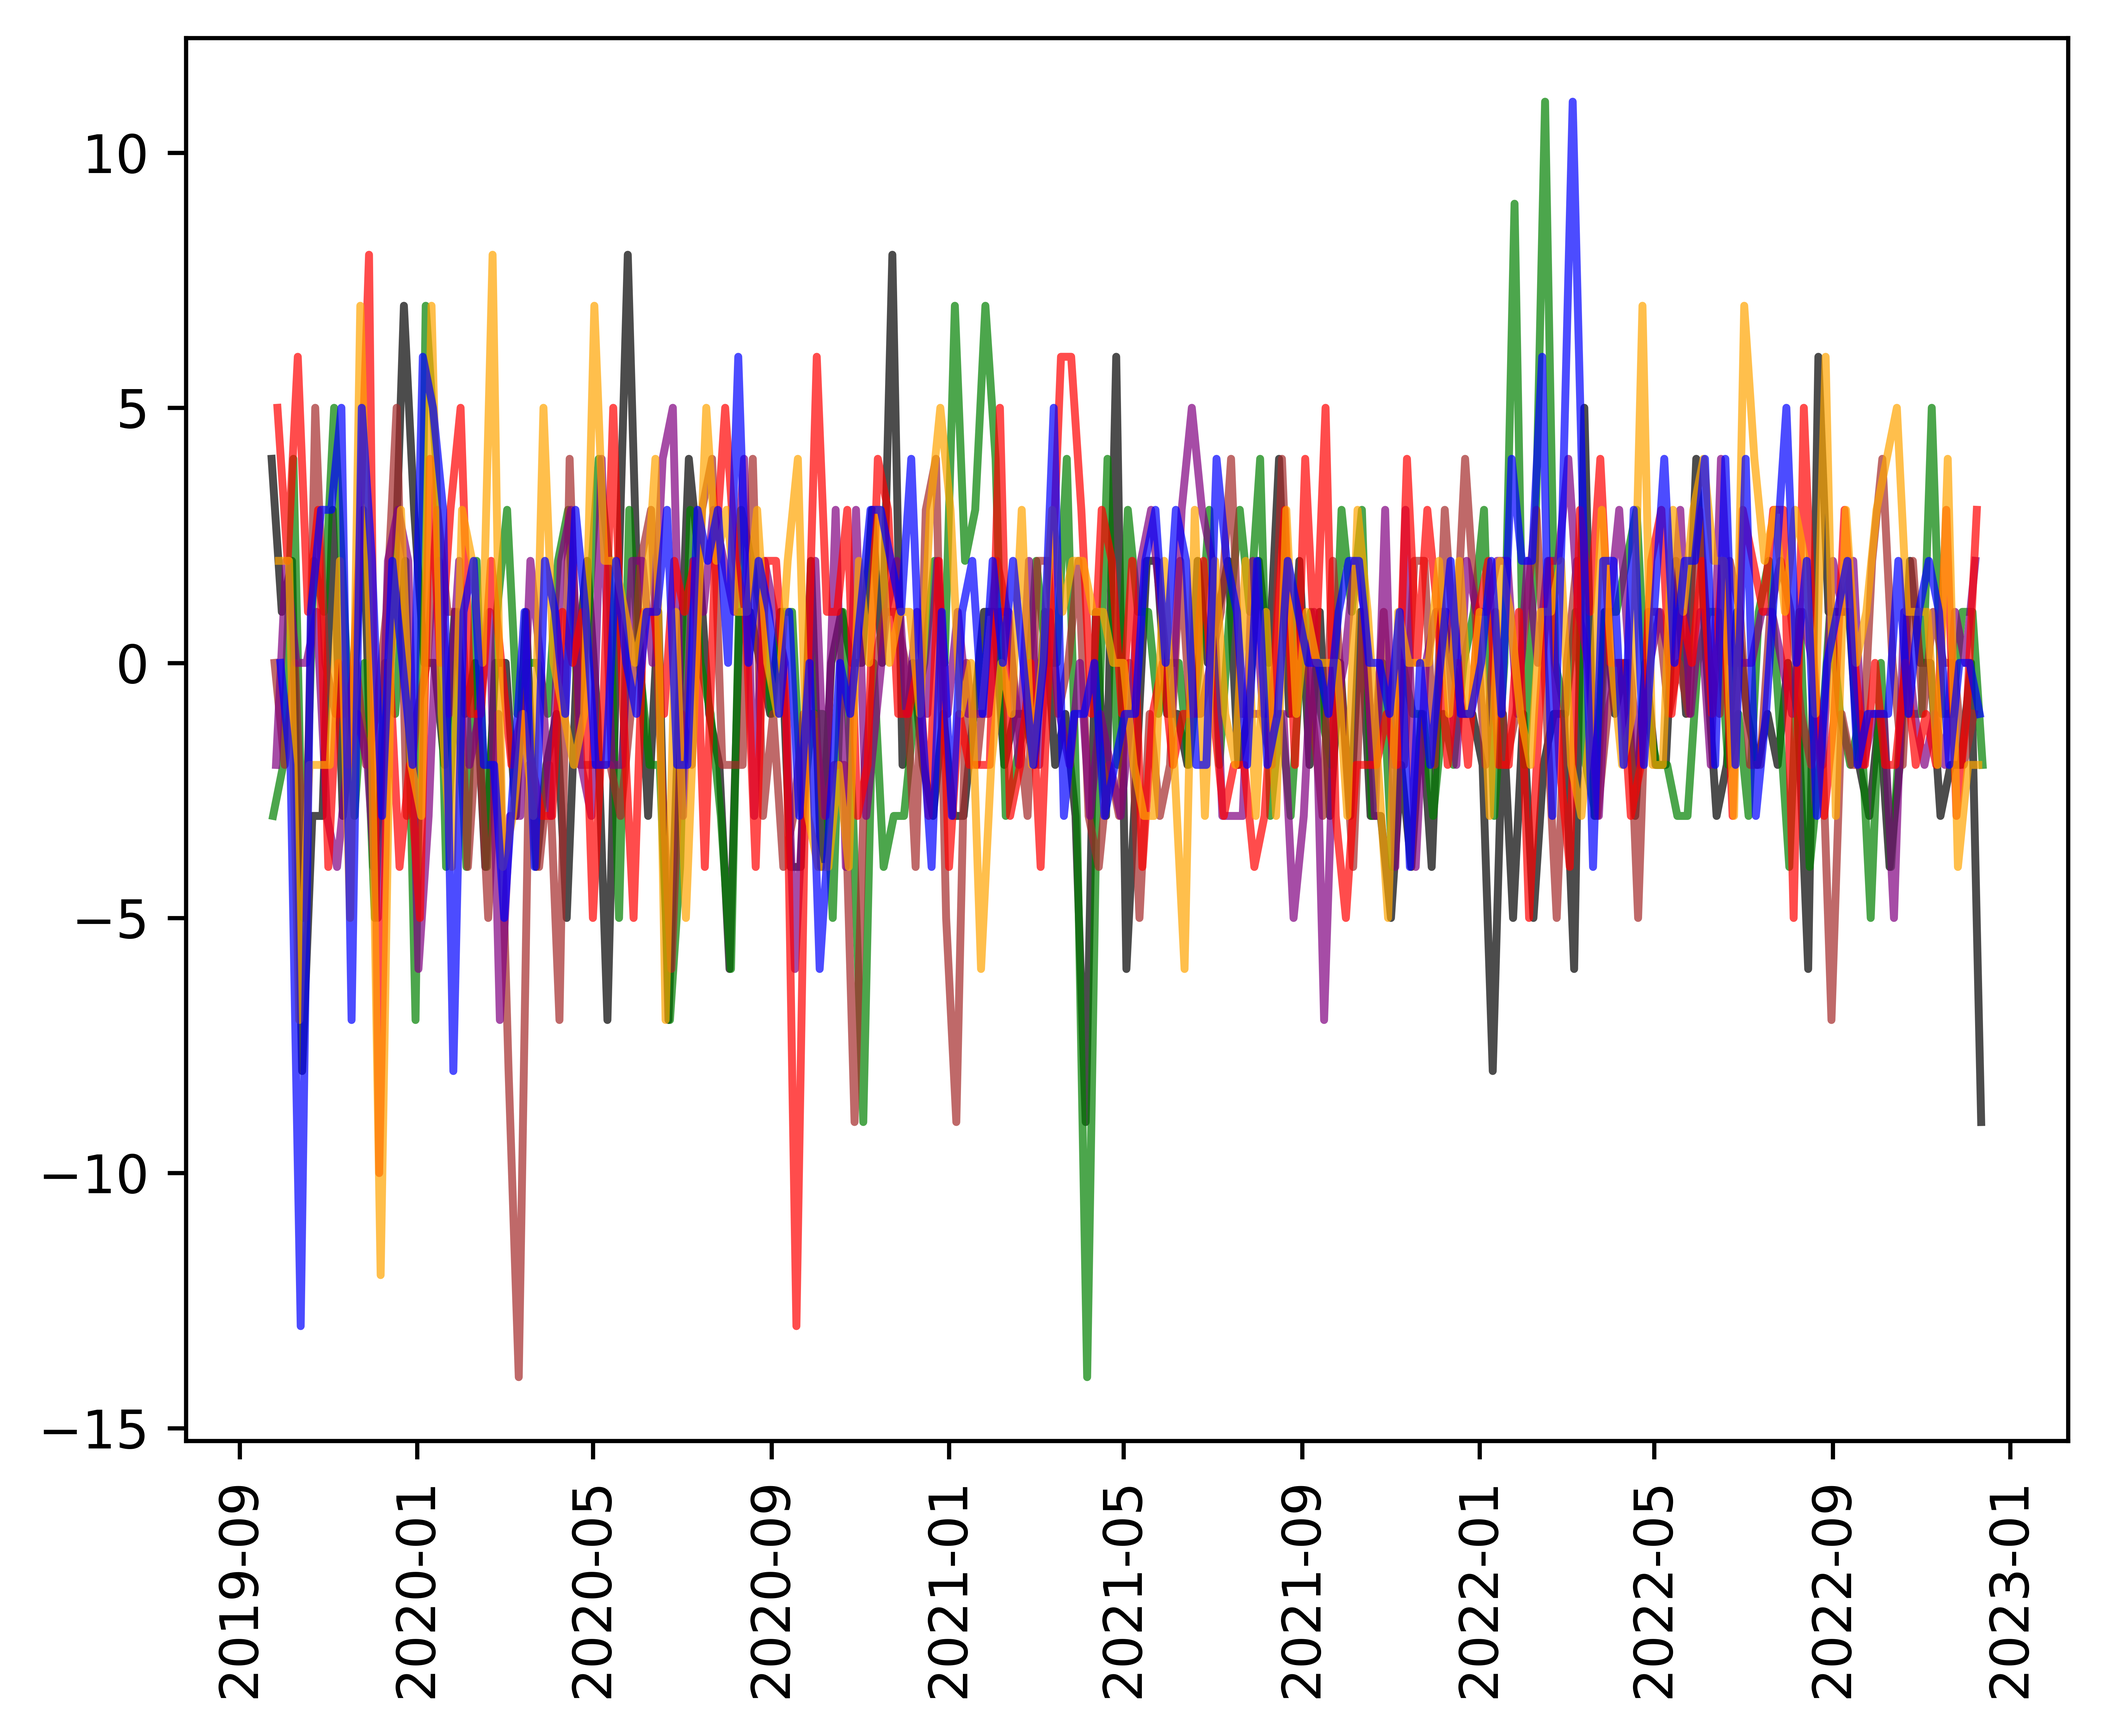
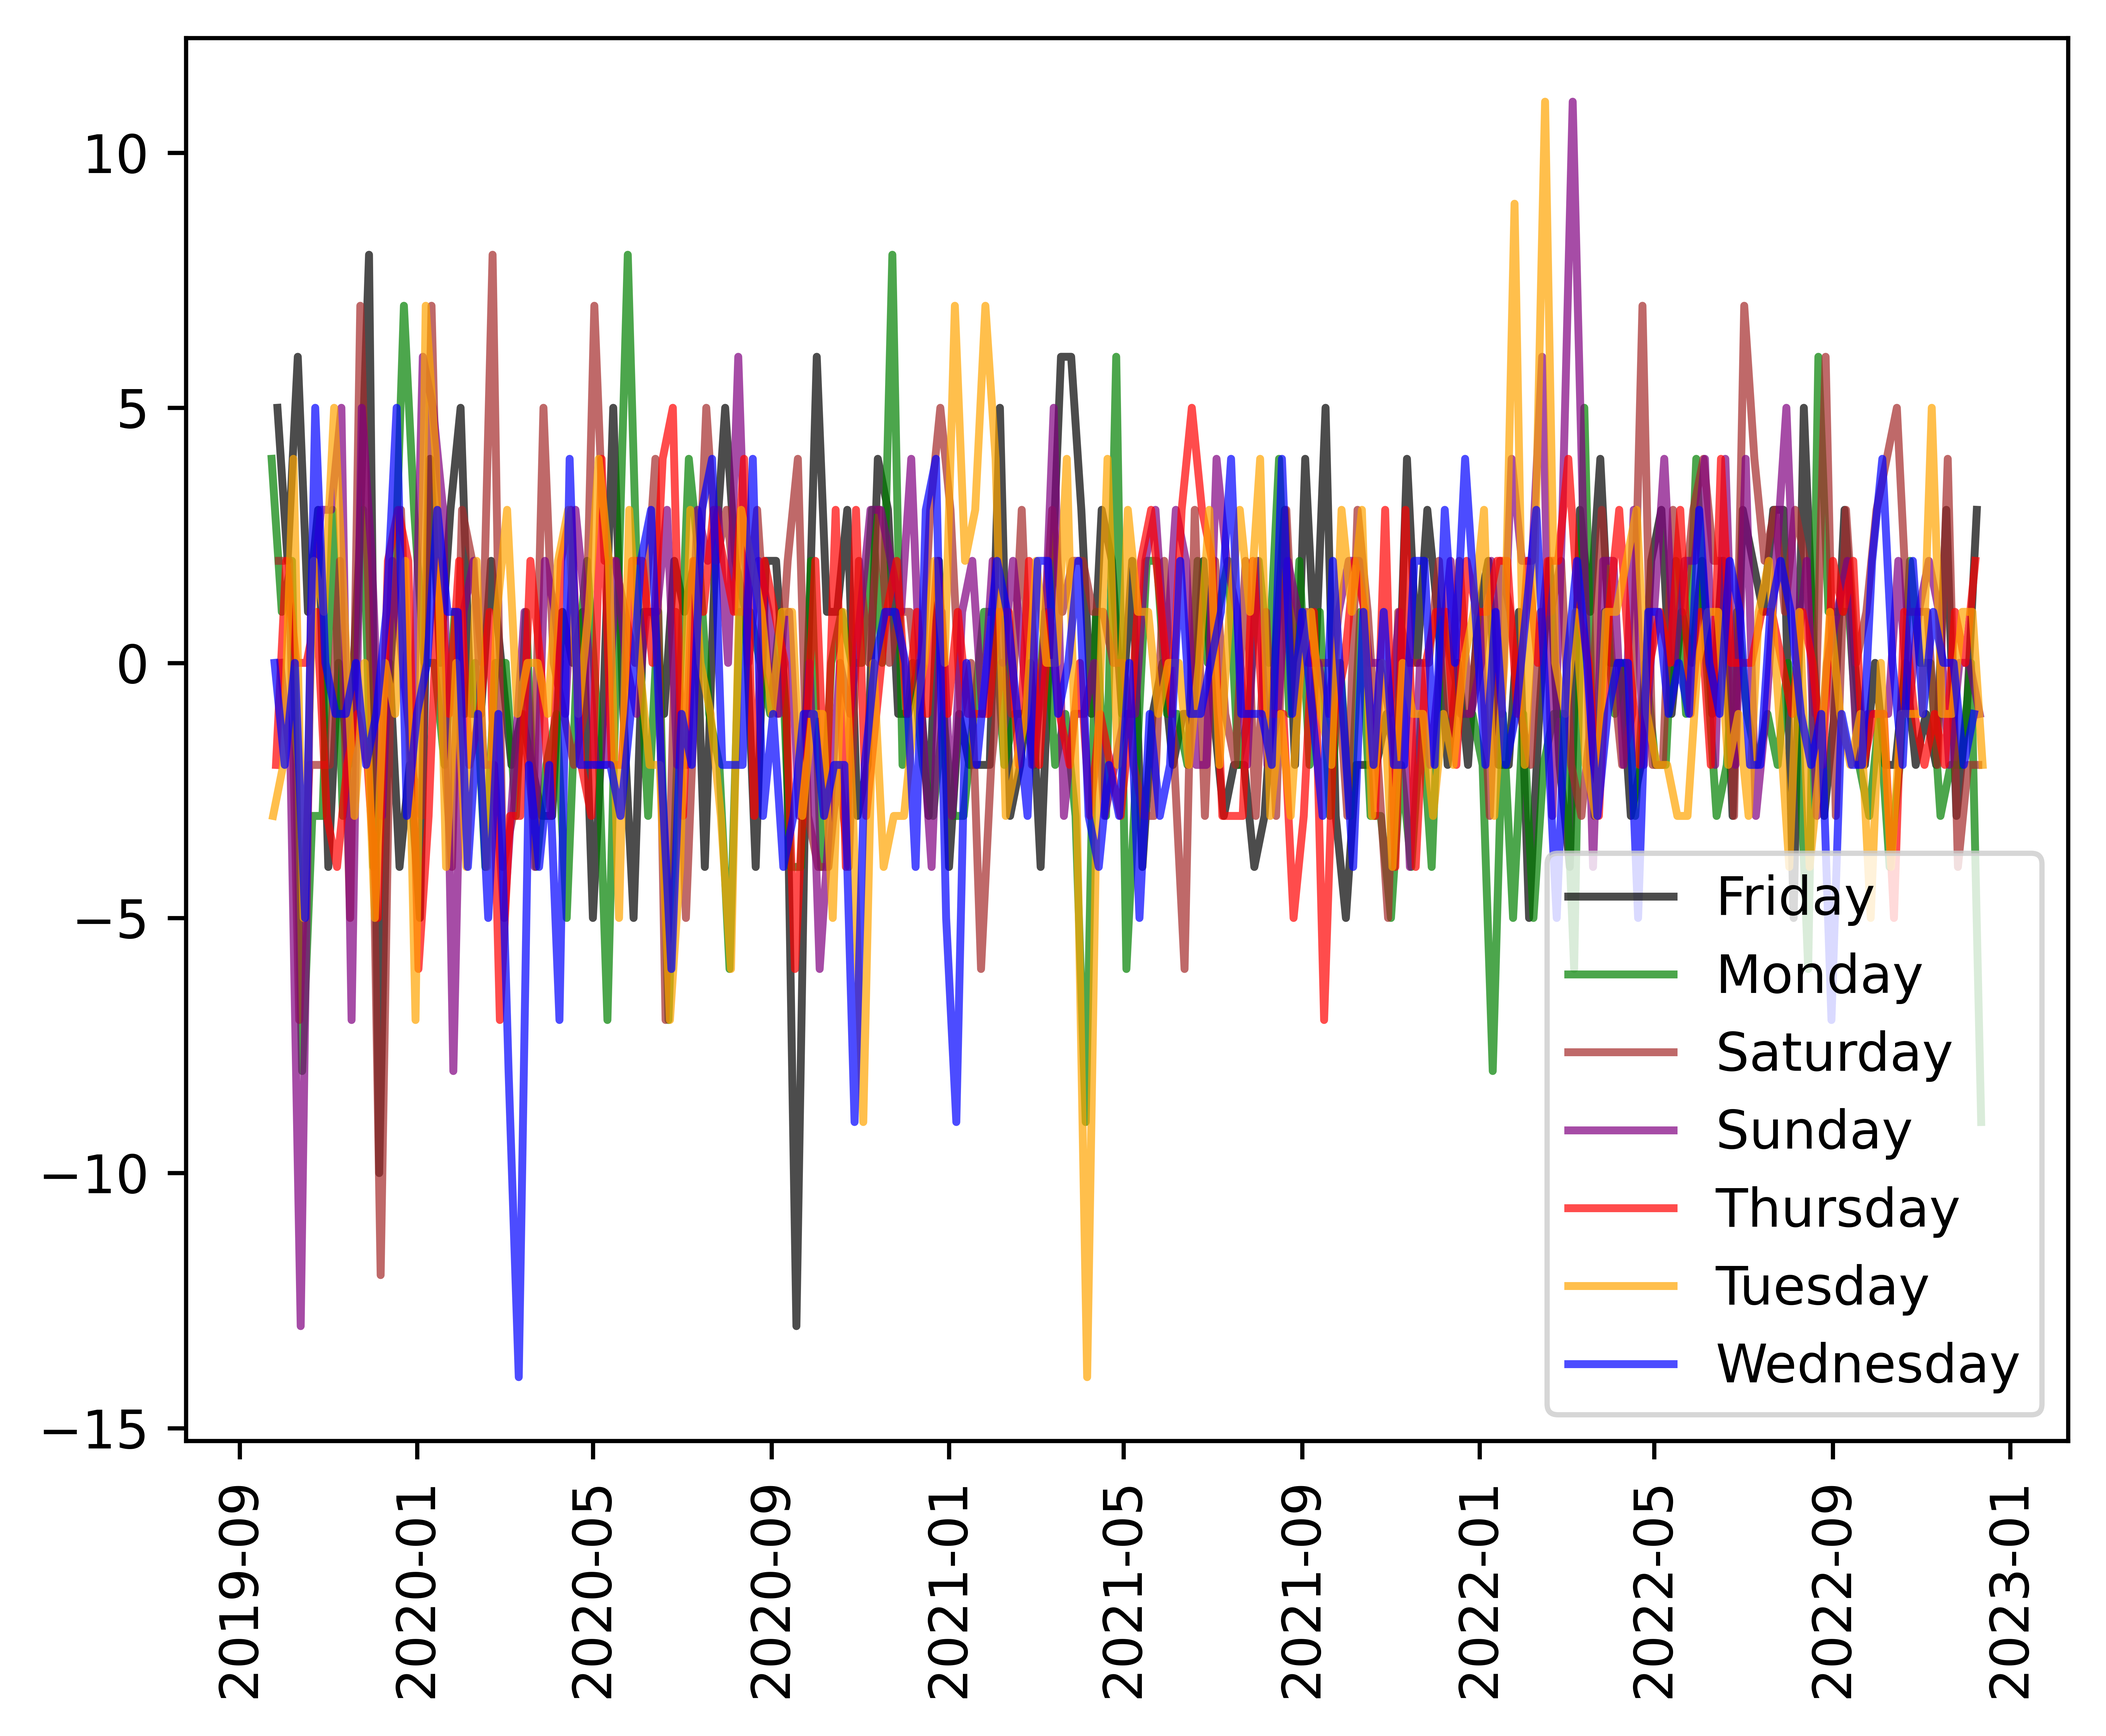
finished day of week

diff --git a/graph.py b/graph.py
@@ -1,18 +1,19 @@
 import pandas as pd
 from matplotlib import pyplot as plt
 import datetime
-
+import numpy as np
 import calc
 import util
+import json
 
-def trad_graph(x, y, name, dpi=1200, animate=False):
+def trad_graph_provided_xy(x, y, name, dpi=1200, animate=False):
     plt.plot(x, y)
     graph_name = f'Graphs/{name}'
     plt.savefig(graph_name, dpi=dpi, bbox_inches='tight')
     print(f'Printed to {graph_name}')
 
 # specifically designed for days of week initially but may need to expand
-def multi_graph(x_data, y_data, data_labels, name, dpi=1200, animate=False, colors=None, alpha=.7):
+def multi_graph_provided_xy(x_data, y_data, data_labels, name, dpi=1200, animate=False, colors=None, alpha=.7):
     plt.xticks(rotation=90)
     for i in range(0, len(x_data)):
         plt.plot(x_data[i], y_data[i], label=data_labels[i], color=colors[i] if colors is not None else None, alpha=alpha)
@@ -20,23 +21,45 @@ def multi_graph(x_data, y_data, data_labels, name, dpi=1200, animate=False, colo
     plt.savefig(graph_name, dpi=dpi, bbox_inches='tight')
     print(f'Printed to {graph_name}')
 
+def split_graph(df, trait, trait_to_split, name, date=0, dpi=1200, animate=False, colors_file=None, alpha=.7):
+    values = sorted(list(set(df[trait_to_split])))
+    data = [df.loc[df[trait_to_split] == value] for value in values]
+
+    for i in range(0, len(data)):
+        if trait not in data[i]:
+            data[i] = util.add_parameter(data[i], trait=trait)
+    
+    colors_dict = json.load(open(colors_file)) if colors_file is not None else {}
+
+    plt.xticks(rotation=90)
+    for i in range(0, len(data)):
+        label = values[i]
+        data_section = data[i]
+        #TODO implement random color
+        plt.plot(data_section['day'], data_section[trait],label=label, alpha=alpha, color=colors_dict[label.lower()] if label.lower() in colors_dict else None)
+    plt.legend()
+    graph_name = f'Graphs/{name}'
+    plt.savefig(graph_name, dpi=dpi, bbox_inches='tight')
+    print(f'Printed to {graph_name}')
+
+
 
 def graph_delta_by_time(df, start_date=None, end_date=None, animate=False):
     dates = list(util.get_column(df, 'date', start_date=start_date, end_date=end_date))
     deltas = list(util.get_column(df, 'delta', start_date=start_date, end_date=end_date))
-    trad_graph(dates, deltas, 'deltas', animate=False)
+    trad_graph_provided_xy(dates, deltas, 'deltas', animate=False)
 
 def graph_total_by_time(df, start_date=None, end_date=None, animate=False):
     totals = list(calc.get_total(df))
     dates = list(util.get_column(df, 'date', start_date=start_date, end_date=end_date))[:len(totals)]
-    trad_graph(dates, totals, 'totals', animate=False)
+    trad_graph_provided_xy(dates, totals, 'totals', animate=False)
 
 def graph_frequency_by_time(df, name, start_date=None, end_date=None, animate=False):
 
     freq = calc.get_frequencies(df, name=name, start_date=start_date, end_date=end_date)
     sorted_freqs = sorted(freq.items())
     x, y = zip(*sorted_freqs)
-    trad_graph(x, y, f'freq_{name}', animate=False)
+    trad_graph_provided_xy(x, y, f'freq_{name}', animate=False)
 
 
 def graph_value_of_each_value(df, start_date=None, end_date=None, animate=False):
@@ -44,33 +67,16 @@ def graph_value_of_each_value(df, start_date=None, end_date=None, animate=False)
     sorted_freqs = sorted(freq.items())
     sorted_values = list(map(lambda v: (v[0], v[0] * v[1]), sorted_freqs))
     x, y = zip(*sorted_values)
-    trad_graph(x, y, 'value_by_value', animate=False)
+    trad_graph_provided_xy(x, y, 'value_by_value', animate=False)
 
-def graph_weekdays(df, trait, start_date=None, end_date=None, colors=['black', 'green', 'brown', 'purple', 'red', 'orange', 'blue']):
-    df = util.filter_dataframe(df)
-
-
-
-    print(df)
-    dates = list(util.get_parameter(df, 'date', start_date=start_date, end_date=end_date))
-    additional_columns = [f'{trait}_weekday'] if trait not in df.columns else []
-    """
-    if len(additional_columns) > 0:
-        for trait in additional_columns: util.add_parameter(df, trait='total')
-    """
-    print(df)
-    new_df = calc.get_weekdays_dataframe(df, start_date=start_date, end_date=end_date)
-    print(new_df)
-    new_df = util.add_parameters_to_weekdays(df=new_df, traits=additional_columns)
-    x_data = [list(map(lambda v: v[0], list(new_df.loc[new_df[i].isna()]))) for i in range(0, 7)]
-    y_data = [list(map(lambda v: v[1][trait], list(new_df[i].loc[new_df[i] != ()]))) for i in range(0, 7)]
-
-    data_labels = ['Monday', 'Tuesday', 'Wednesday', 'Thursday', 'Friday', 'Saturday', 'Sunday']
-    multi_graph(x_data=x_data, y_data=y_data, data_labels=data_labels, name=f'days_of_week_{trait}', colors=colors)
+def graph_weekdays(df, trait, start_date=None, end_date=None, colors_file='Config/default.json'):
+    df = util.filter_dataframe(df, start_date=start_date, end_date=end_date)
+    df = util.add_parameter(df, 'weekday')
+    split_graph(df=df, trait=trait, trait_to_split='weekday', name=f'days_of_week_{trait}', colors_file=colors_file)
 
 filename = 'pursuit.csv'
-df = pd.read_csv(filename)
-graph_weekdays(df, 'delta')
+df = util.get_df_from_csv(filename)
+graph_weekdays(df, 'total', start_date=datetime.datetime(year=2022, month=1, day=1))
 #graph_weekdays(df, 'total')
 #graph_total_by_time(df)
 #graph_delta_by_time(df, start_date=datetime.datetime(year=2021, month=2, day=3), end_date=datetime.datetime(year=2021, month=3, day=3))

diff --git a/util.py b/util.py
@@ -1,6 +1,9 @@
 import calc
 import datetime
 import numpy as np
+import pandas as pd
+import matplotlib as plt
+
 
 def get_column(df, column_name, start_date=None, end_date=None):
     start_date_name = start_date.strftime("%-m/%-d/%-Y") if start_date is not None else None
@@ -33,7 +36,12 @@ def get_parameter(df, name, start_date=None, end_date=None):
     else:
         raise Exception(f'Do not know how to handle name: {name}')
 
-def filter_dataframe(df, trait='delta'):
+def filter_dataframe(df, trait='delta', start_date=None, end_date=None):
+    if 'day' not in df.columns:
+        df = add_parameter(df, 'day')
+    start_date = start_date if start_date is not None else min(df['day'])
+    end_date = end_date if end_date is not None else max(df['day'])
+    df = df[df.apply(lambda v: v['day'] >= start_date and v['day'] <= end_date, axis=1)]
     df = df[df.apply(lambda v: not np.isnan(v[trait]), axis=1)]
     return df
 
@@ -43,6 +51,10 @@ def add_parameter(df, trait):
     elif trait == 'total':
         col = calc.get_total(df)
         df['total'] = col
+    elif trait == 'day':
+        df = calc.get_day(df)
+    elif trait == 'weekday':
+        df = calc.get_weekday(df)
     else:
         raise Exception(f'Do not know how to handle trait: {trait}')
     return df
@@ -68,3 +80,17 @@ def add_parameter_to_weekdays(df, trait):
 def add_parameters_to_weekdays(df, traits):
     for trait in traits: df = add_parameter_to_weekdays(df, trait)
     return df
+
+
+def get_df_from_csv(filename : str):
+    df = pd.read_csv(filename)
+    df = filter_dataframe(df)
+    df = add_parameter(df, trait='day')
+    return df
+
+
+def get_cmap(n, name='hsv'):
+    '''Returns a function that maps each index in 0, 1, ..., n-1 to a distinct 
+    RGB color; the keyword argument name must be a standard mpl colormap name.'''
+    return plt.cm.get_cmap(name, n)
+    

diff --git a/calc.py b/calc.py
@@ -15,6 +15,22 @@ def get_total(df=None, deltas=None, start_date=None, end_date=None):
         sum += deltas[i]
     return totals
 
+def get_weekday(df, start_date=None, end_date=None):
+    def get_day_of_week(n):
+        day_mapping = {0:'Monday',1:'Tuesday',2:'Wednesday',3: 'Thursday', 4:'Friday', 5:'Saturday', 6:'Sunday'}
+        return day_mapping[n]
+    df = df.assign(weekday=lambda df: df['day'].apply(datetime.datetime.weekday).apply(get_day_of_week))
+    return df
+
+def get_day_from_text(date_text):
+    parsed_date_text = list(map(int, date_text.split('/')))
+    return datetime.datetime(month=parsed_date_text[0], day=parsed_date_text[1], year=parsed_date_text[2])
+
+
+def get_day(df, start_date=None, end_date=None):
+    df = df.assign(day=lambda v: v['date'].apply(get_day_from_text))
+    return df
+
 
 def get_frequencies(df, name=None, start_date=None, end_date=None):
     col = util.get_parameter(df, name, start_date=start_date, end_date=end_date)
@@ -51,3 +67,4 @@ def get_weekdays_dataframe(df, start_date=None, end_date=None):
     list_to_convert = list(map(lambda v: dict_to_convert[v],list(dict_to_convert)))
     new_df = pd.DataFrame(list_to_convert)
     return new_df
+
